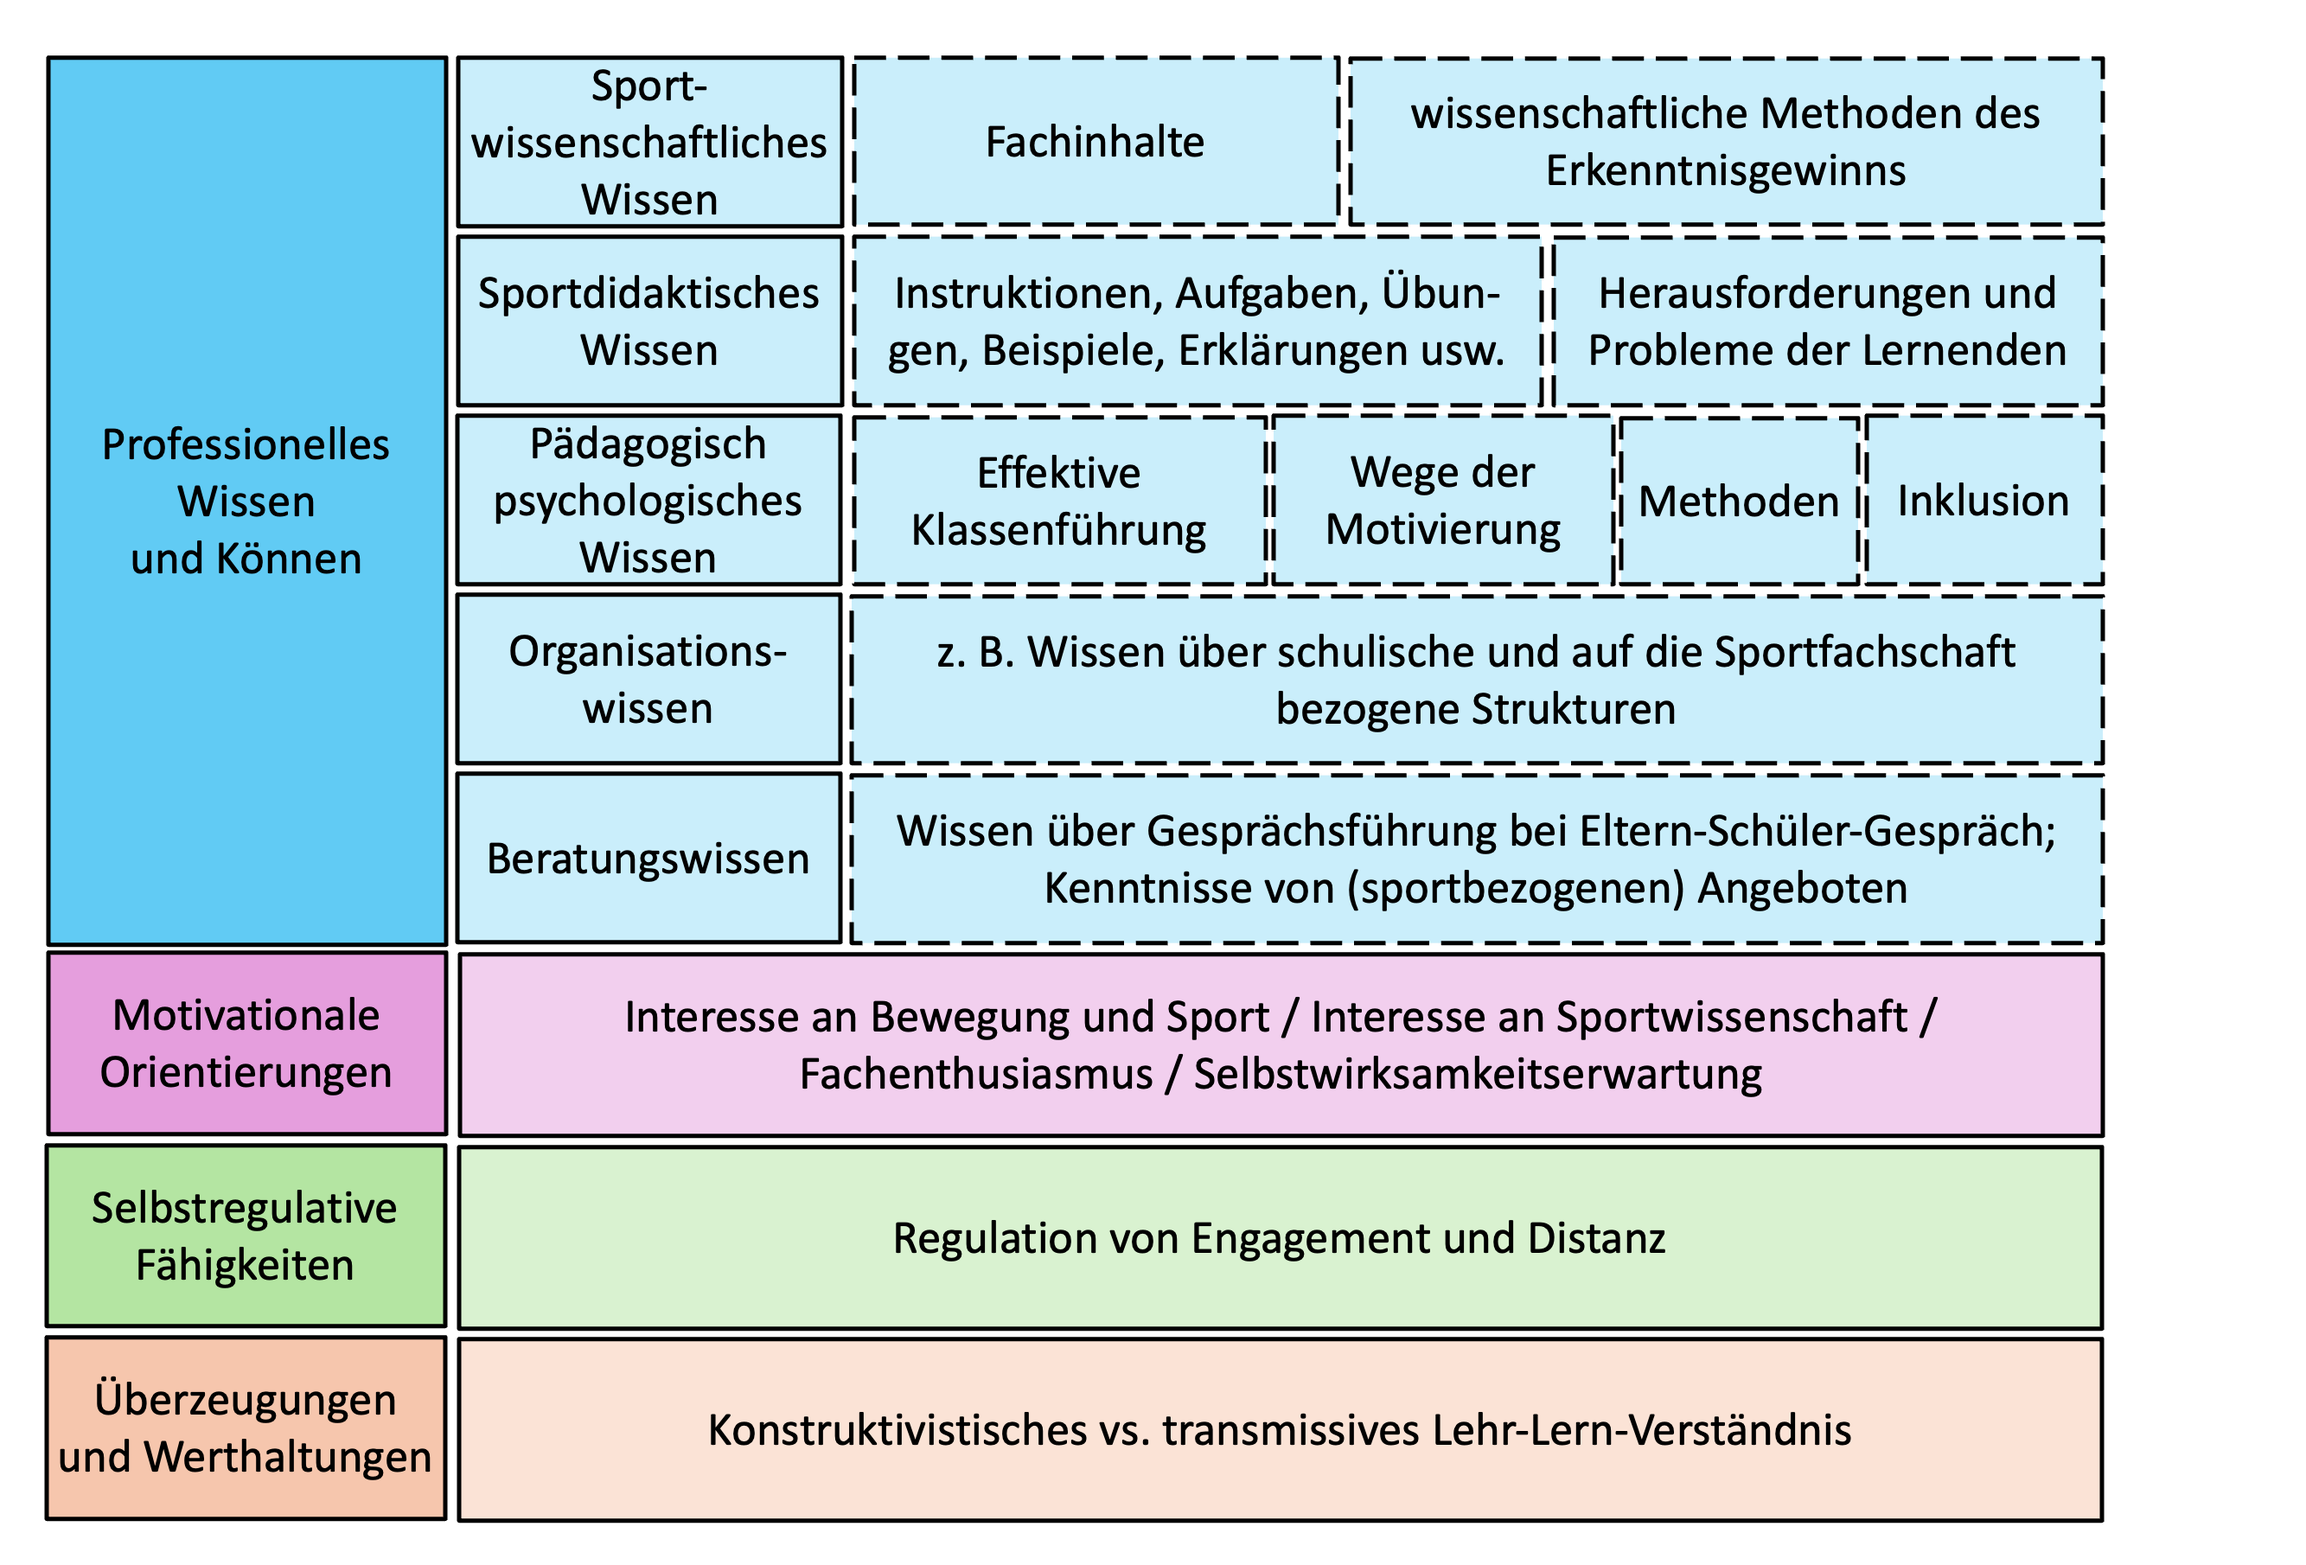
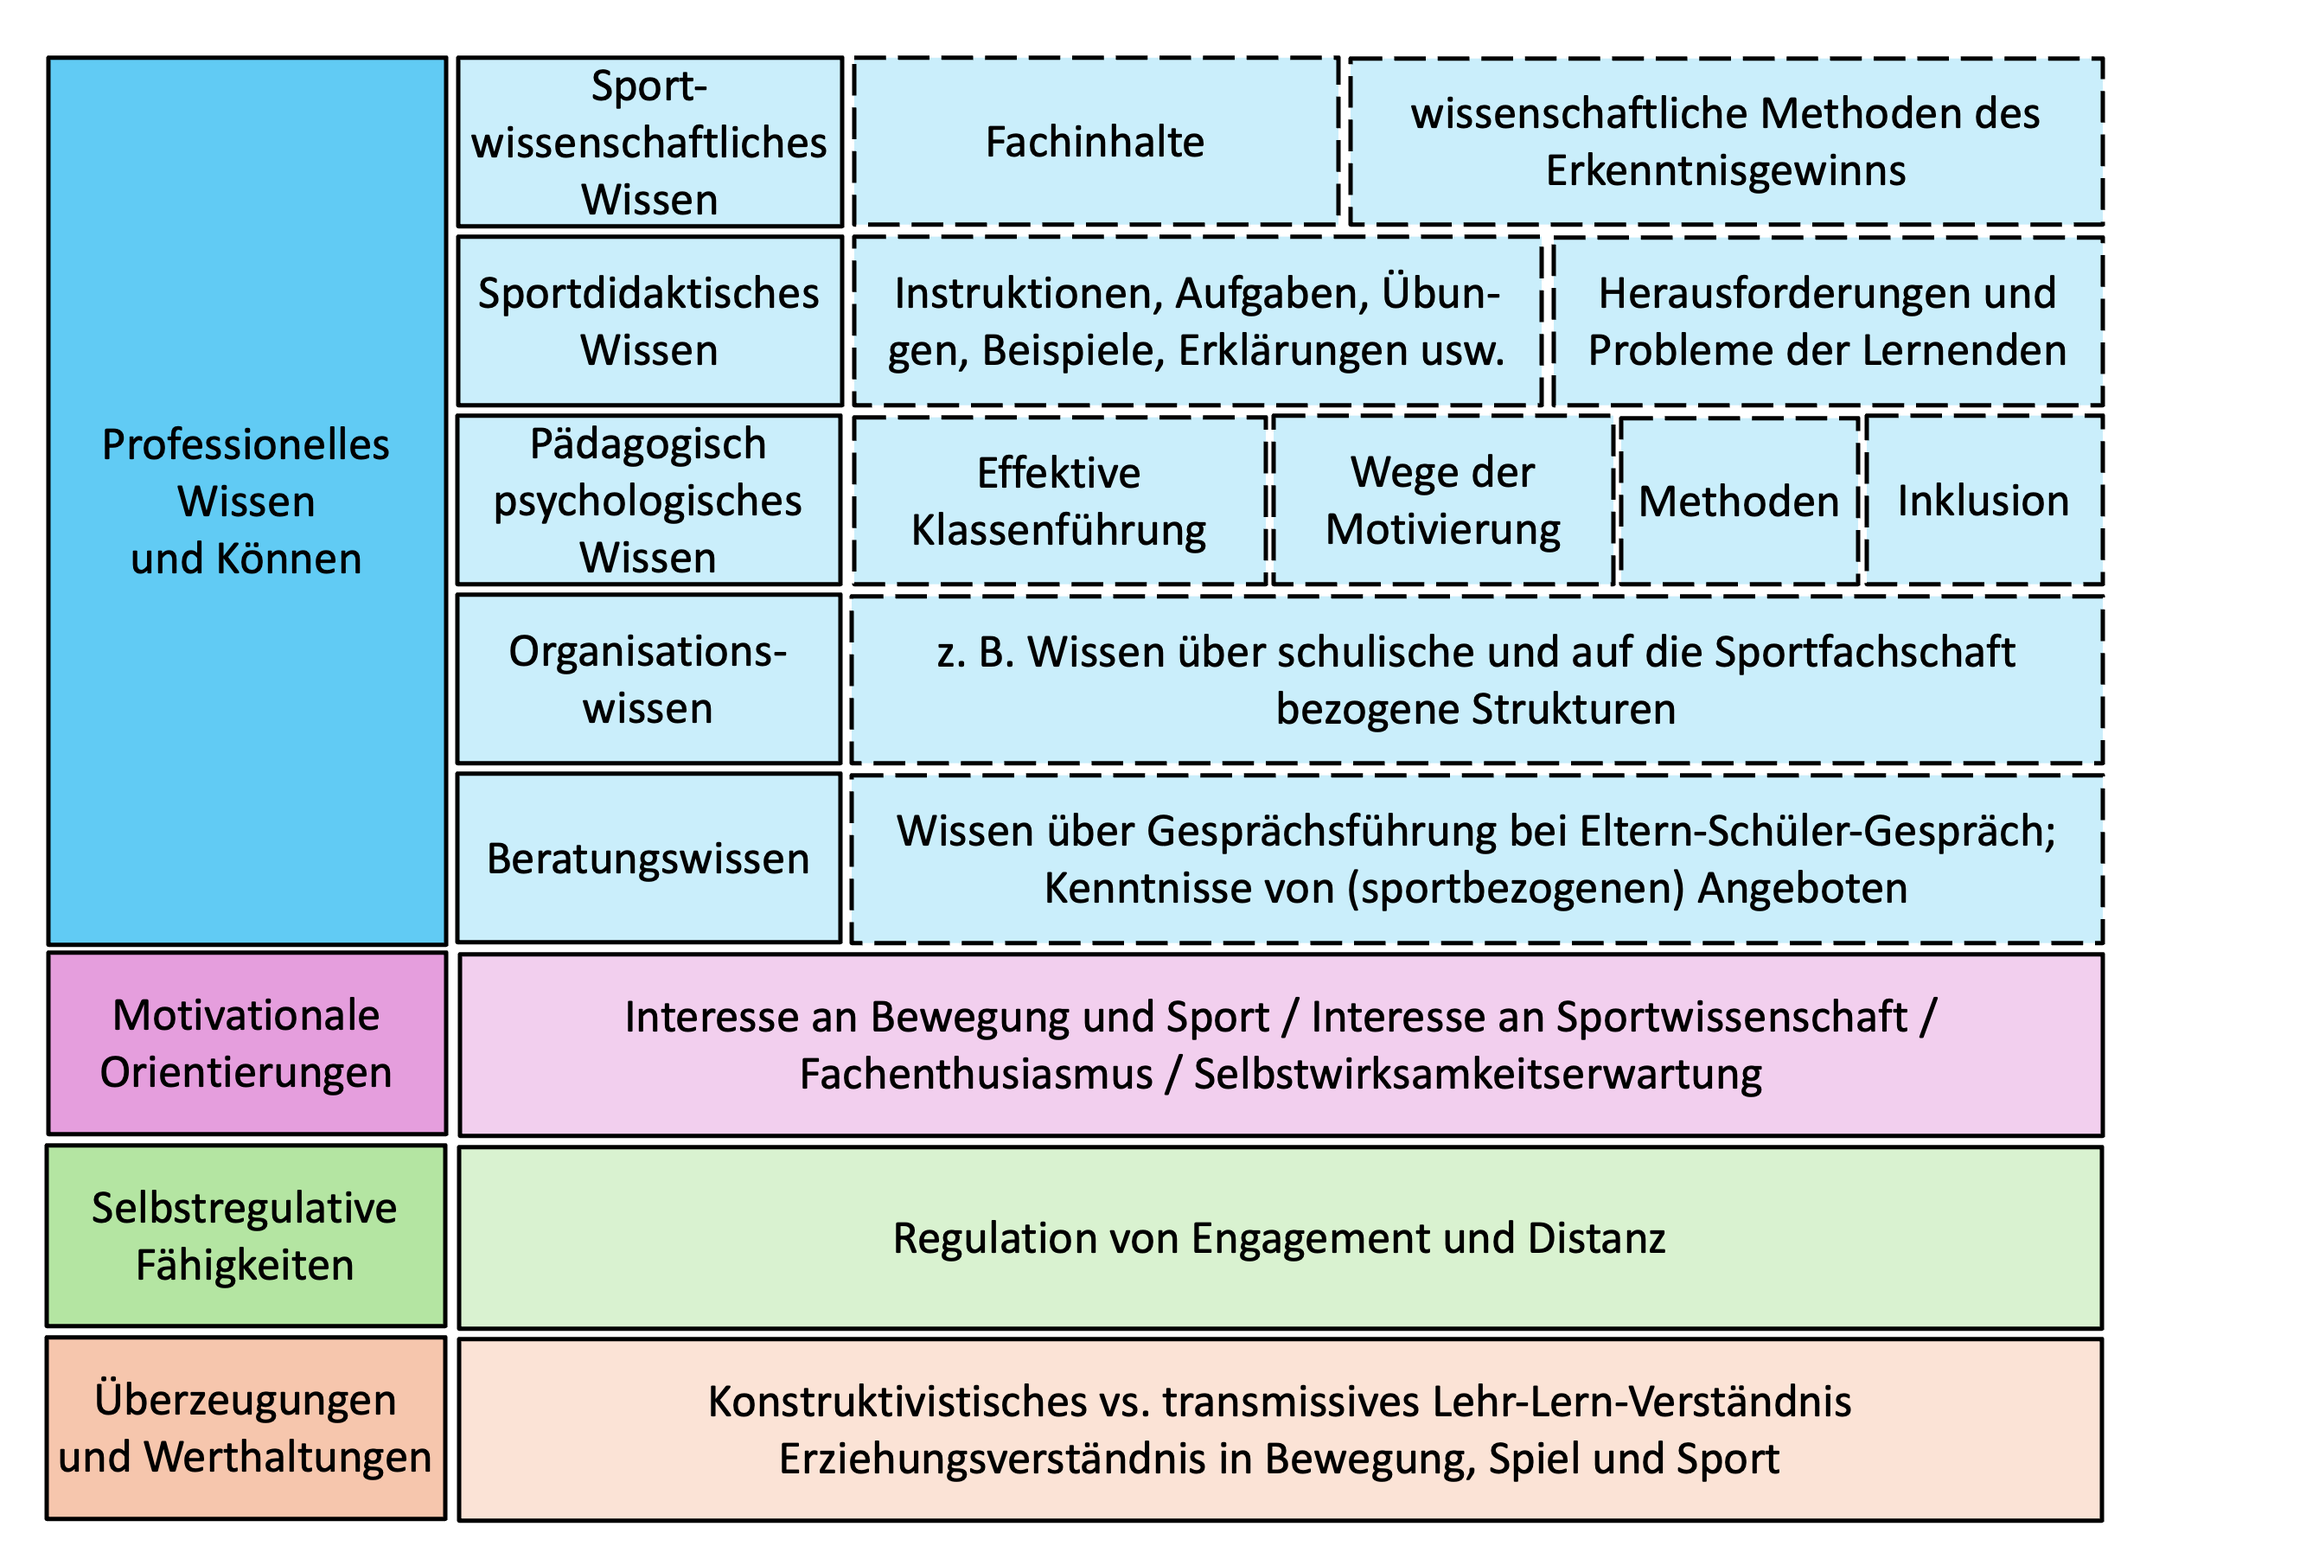
Erste Version Veranstaltungstermin 1

Changed region(s): [[0.3112, 0.8663, 0.8091, 0.9591]]

diff --git a/00_Einfuehrung.md b/00_Einfuehrung.md
@@ -114,13 +114,13 @@ Video 1
 ### Zugang zu Materialien
 
 > - **Öffentlich zugängliches Material**: Lege dir einen GitHub-Account an (Link s. [Seite 1](#einführung-in-die-lehveranstaltung)). Es empfiehlt sich, den Kurs am Ende des Semesters in den eigenen Account zu kopieren. 
-> - **Geschütztes Material**: Findest du im Moodle-Kurs "Einführende Perspektiven in die Sportwissenschaft"
+> - **Geschütztes Material**: Findest du im Moodle-Kurs "HeSe[JJ] Einführende Perspektiven in die Sportwissenschaft"
 
 ### Prüfung
 
-> - Dieses Teilmodul gehört zum Modul PSW "Einführende Perspektiven in die Sportwissenschaft" 
-> - Das PSW-Modul umfasst auch die Vorlesung "Grundlagen der Sportpädagogik und Sportdidaktik", die im FrSe angeboten wird. 
-> - Nach dem FrSe wird das PSW-Modul mit einer schriftlichen Klausur über beide Vorlesungen abgeschlossen. 
+> - Diese Vorlesung gehört zum Modul PSW "Einführende Perspektiven in die Sportwissenschaft" 
+> - Das Modul PSW umfasst auch die Vorlesung "Grundlagen der Sportpädagogik und Sportdidaktik", die im FrSe angeboten wird. 
+> - Nach dem FrSe wird das Modul PSW mit einer schriftlichen Klausur über beide Vorlesungen abgeschlossen. 
 
 ## Sportstudium an der EUF 
 
@@ -152,25 +152,28 @@ Video 1
 
 ### Studiendokumente
 
-{{0-2}}
+{{0-3}}
 ****************************
 **Rechtliche Verankerung** 
 
 Die [Fachprüfungsordnung](https://www.uni-flensburg.de/die-universitaet/organisation-und-struktur/satzungen-und-ordnungen/dokumente-zum-studium/ba-bildungwissenschaften) informiert über den rechtlich verankerten Rahmen des Studiums. 
 ****************************
 
-{{1-2}}
+{{1-3}}
 ****************************
 **Informierende Dokumente** 
 
 Das [Modulhandbuch](https://www.uni-flensburg.de/die-universitaet/organisation-und-struktur/satzungen-und-ordnungen/dokumente-zum-studium/ba-bildungwissenschaften) informiert über die Inhalte, Prüfungsformate, Semestrigkeit und den geplanten Workload der einzelnen Module. 
 ****************************
 
-{{2-2}}
+{{2-3}}
 ****************************
 **Sportspezifische Dokumente**
 
-Auf den Seiten des Sportinstituts findet ihr auch Angaben zu den [sportpraktischen Prüfungen](https://www.uni-flensburg.de/sport/studierende/pruefungen-in-den-bewegungsfeldern). 
+ Auf den Seiten des Sportinstituts findet ihr auch Angaben 
+- ... zum Studienverlauf im sportwissenschaftlichen Teilstudiengang
+- ... zu den [sportpraktischen Prüfungen](https://www.uni-flensburg.de/sport/studierende/pruefungen-in-den-bewegungsfeldern). 
+
 ****************************
 
 ### Studieninformation
@@ -187,6 +190,7 @@ Auf den Seiten des Sportinstituts findet ihr auch Angaben zu den [sportpraktisch
 > * In welchen Lehrveranstlatungen besteht eine Anwesenheitspflicht?
 > * Welches Prüfungsformat ist im Modul "Lehren und Lernen in den Sportspielen" vorgesehen?
 > * In wechem Semester liegt das Modul "Sportpädagogik des Kindes- und Jugendalters"?
+> * In welcher Lehveranstaltung muss eine Prüfungsvorleistung erbracht werden?
 >
 >**Aufgabe 2**
 >
@@ -195,16 +199,54 @@ Auf den Seiten des Sportinstituts findet ihr auch Angaben zu den [sportpraktisch
 > * Wie viele Prüfungsteile umfasst die praktische Prüfung im Bewegungsfeld Laufen, Springen und Werfen?
 > * Welche Prüfungsleistung im Bewegunsgfeld Bewegen im Wasser ist notwendig für die Note 2,3? 
 > * Wer verantwortet die Studienberatung im Bachelor Teilstudiengang Sportwissenschaft?
-
+> * Wer leitet den Arbeitsbereich Bewegungs- und Trainingswissenschaft?
 
 ## Übungsfragen
 
-Welche der folgenden Aussagen zu Begiffen der Sportwissenschaft ist korrekt?
+Aus wie vielen Veranstaltungen besteht das Modul "Sport und Gesundheit"?
 
-- [[ ]] Die Geburtststunde der Sportwissenschaft in Deutschland lässt sich mit der Gründung der Deutschen Hochschule für Leibesübungen 1946 verbinden.  
-- [[x]] München 1972, die „Trimm Dich"-Bewegung 
-- [[x]] Aussage 3
-- [[ ]] Aussage 4
-- [[x]] Aussage 5
+- [[ ]] 1
+- [[x]] 2
+- [[ ]] 3
+- [[ ]] 4
+
+Wer bietet die Studienberatung im Bachelor im Fach Sport an?
+
+- [[ ]] Meike Starke
+- [[ ]] Tobias Regenbrecht
+- [[ ]] Tim Heemsoth
+- [[x]] Nele Schlapkohl
+
+Mit welcher Prüfungsleistung endet das Modul "Lehren und Lernen in den Sportspielen"?
+
+- [[x]] Klausur
+- [[ ]] Mündlche Prüfung
+- [[ ]] Hausarbeit
+- [[x]] Praktische Prüfung
+
+Wie viele Leistungspunkte werden im Modul Bewegungsgestaltung, Freizeit- und Trendsportarten" erworben?
+
+- [[ ]] 5
+- [[ ]] 7
+- [[x]] 10
+- [[ ]] 12
+
+
+Welche Studierende besuchen das Modul "Ausgewählte Themen der Sportwissenschaft I"?
+
+- [[x]] Studierende mit dem Ziel berufliche Schulen.
+- [[ ]] Studierende mit dem Ziel Grundschullehramt.
+- [[x]] Studierende mit dem Ziel Gemenschaftsschule oder Gymnasium.
+- [[x]] Studierende mit dem Ziel fachwissenschaftlicher Masterstudiengang.
+
+
+Mit welcher Note wird in der Veranstaltung "Laufen, Springen Werfen" eine Weitsprungleistung von 4,20 m bei den Studentinnen bewertet?
+
+- [[ ]] 2,0
+- [[ ]] 2,3
+- [[x]] 2,7
+- [[ ]] 3,0
 
 ## Hausaufgabe
+
+> Lies bis zur nächsten Veranstaltung den folgenden Text... 
